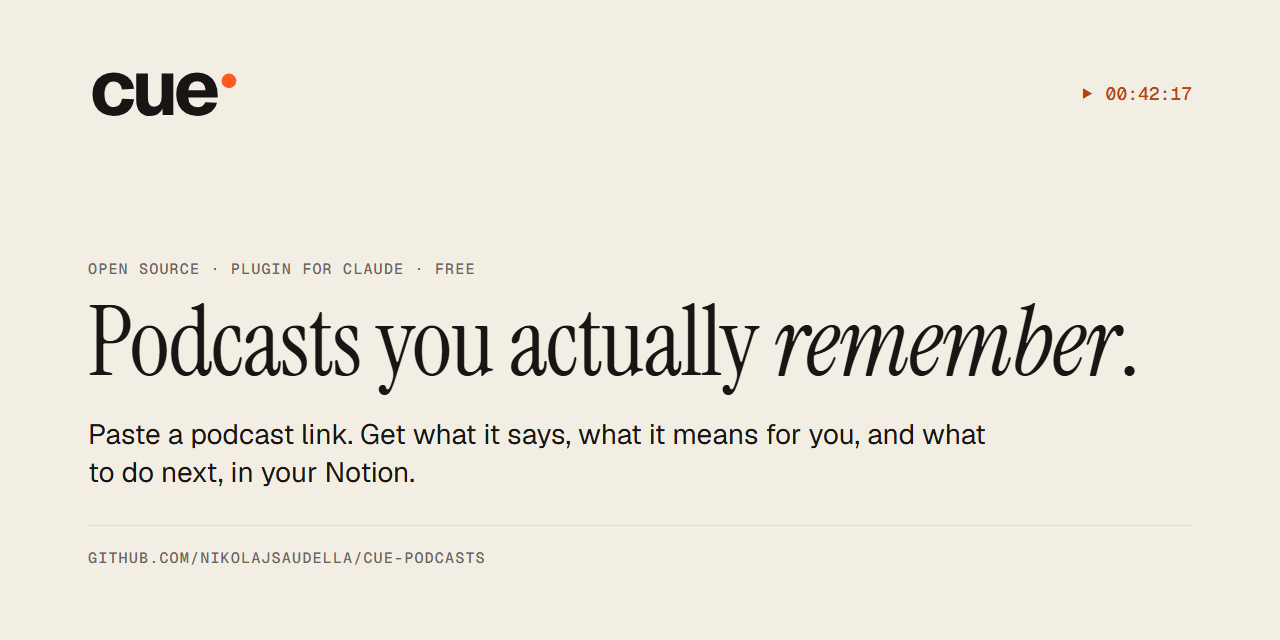
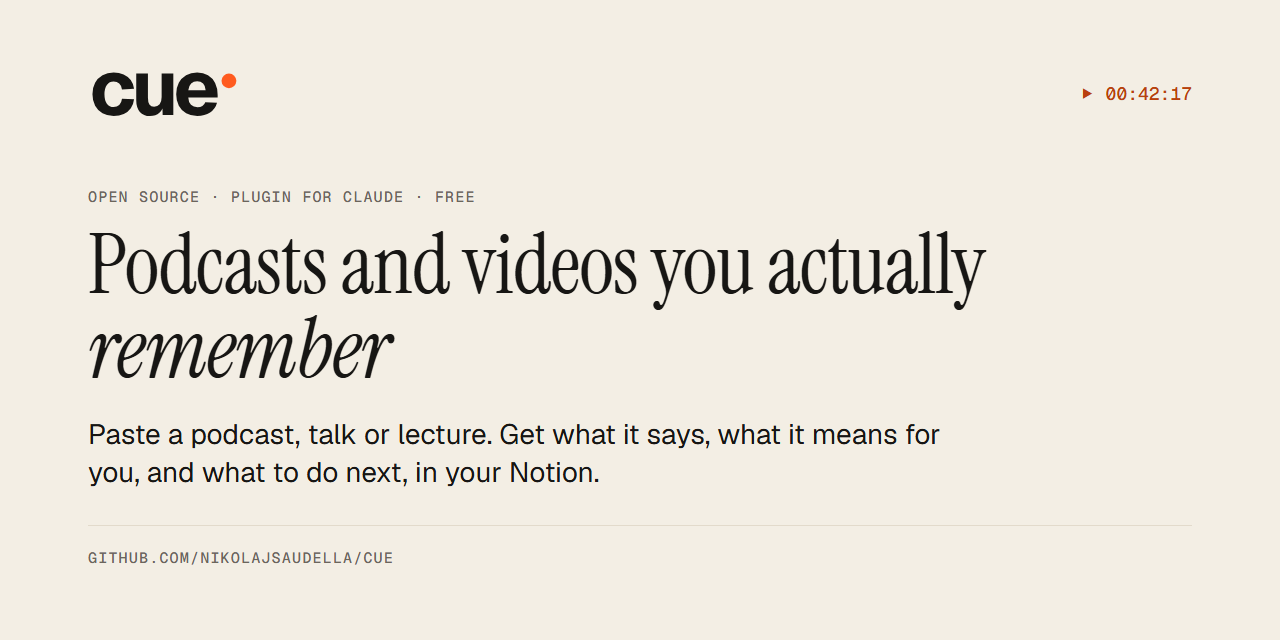
v0.1.3: podcasts and videos; new repository name cue

diff --git a/README.md b/README.md
@@ -7,13 +7,13 @@
 
 # cue
 
-**Podcasts you actually remember — and what they mean for you.**
+**Podcasts and videos you actually remember — and what they mean for you.**
 
-Paste a podcast link. Get what it says, what it means for *you*, and what to do next, in your Notion. *(Cue is pronounced like the letter Q.)*
+Paste a link to a podcast, a YouTube video, a talk or a lecture. Get what it says, what it means for *you*, and what to do next, in your Notion. *(Cue is pronounced like the letter Q.)*
 
 [🇮🇹 Leggi in italiano](README.it.md)
 
-You listen to great podcasts and forget them a week later. Cue turns each episode into a Notion page you'll actually use: the key ideas, chapters with clickable timestamps, the best quotes, and — the part that matters — **how it connects to your own projects and what you should do about it**.
+You listen to great podcasts, watch great talks and lectures, and forget them a week later. Cue turns each one into a Notion page you'll actually use: the key ideas, chapters with clickable timestamps, the best quotes, and — the part that matters — **how it connects to your own projects and what you should do about it**.
 
 It's a free plugin for the Claude app. No API keys, no subscriptions beyond your Claude plan, no code.
 
@@ -65,7 +65,7 @@ In the Claude desktop app, open the **Code** tab and start a session in any fold
 1. Click **+** next to the message box → **Plugins** → **Add plugin**.
 2. Choose **Add marketplace** and paste:
    ```
-   https://github.com/NikolajSaudella/cue-podcasts
+   https://github.com/NikolajSaudella/cue
    ```
 3. Select **cue** in the list and choose **Install for you**, so it works in every folder.
 
@@ -73,7 +73,7 @@ In the Claude desktop app, open the **Code** tab and start a session in any fold
 <summary>Using Claude Code in the terminal instead?</summary>
 
 ```
-/plugin marketplace add NikolajSaudella/cue-podcasts
+/plugin marketplace add NikolajSaudella/cue
 /plugin install cue@cue
 ```
 </details>
@@ -93,7 +93,7 @@ Claude takes it from there. It will:
 
 ## Everyday use
 
-- **Paste a link** in Claude: YouTube, Spotify or Apple Podcasts. For example: `https://www.youtube.com/watch?v=...`
+- **Paste a link** in Claude: a podcast (Spotify, Apple Podcasts), any YouTube video (interviews, talks, lectures, webinars) or a link to an audio file. For example: `https://www.youtube.com/watch?v=...`
 - **From your phone**: add a row with the link to the **📥 Inbox** in Notion, then tell Claude "process my inbox".
 - **Keep "🧭 My context" up to date**: new project, new goal? Edit the page, and future episodes will take it into account.
 

diff --git a/README.it.md b/README.it.md
@@ -7,13 +7,13 @@
 
 # cue
 
-**I podcast che ricordi davvero, e cosa significano per te.**
+**Podcast e video che ricordi davvero, e cosa significano per te.**
 
-Incolli il link di un podcast. Ottieni cosa dice, cosa significa *per te* e cosa fare, nel tuo Notion. *(Cue si pronuncia come la lettera Q.)*
+Incolli il link di un podcast, di un video YouTube, di un talk o di una lezione. Ottieni cosa dice, cosa significa *per te* e cosa fare, nel tuo Notion. *(Cue si pronuncia come la lettera Q.)*
 
 [🇬🇧 Read in English](README.md)
 
-Ascolti podcast bellissimi e dopo una settimana non ricordi niente. Cue trasforma ogni puntata in una pagina Notion che userai davvero. Dentro trovi:
+Ascolti podcast bellissimi, guardi talk e lezioni, e dopo una settimana non ricordi niente. Cue trasforma ognuno in una pagina Notion che userai davvero. Dentro trovi:
 - le idee chiave;
 - i capitoli con i minutaggi cliccabili;
 - le citazioni migliori;
@@ -69,7 +69,7 @@ Nell'app Claude per computer apri la scheda **Code** e avvia una sessione in una
 1. Clicca **+** accanto alla casella del messaggio → **Plugins** → **Add plugin**.
 2. Scegli **Add marketplace** e incolla:
    ```
-   https://github.com/NikolajSaudella/cue-podcasts
+   https://github.com/NikolajSaudella/cue
    ```
 3. Seleziona **cue** nella lista e scegli **Install for you**, così funziona in ogni cartella.
 
@@ -77,7 +77,7 @@ Nell'app Claude per computer apri la scheda **Code** e avvia una sessione in una
 <summary>Usi Claude Code dal terminale?</summary>
 
 ```
-/plugin marketplace add NikolajSaudella/cue-podcasts
+/plugin marketplace add NikolajSaudella/cue
 /plugin install cue@cue
 ```
 </details>
@@ -96,7 +96,7 @@ Da lì fa tutto Claude:
 
 ## Uso quotidiano
 
-- **Incolla un link** in Claude: YouTube, Spotify o Apple Podcasts.
+- **Incolla un link** in Claude: un podcast (Spotify, Apple Podcasts), qualsiasi video YouTube (interviste, talk, lezioni, webinar) o il link di un file audio.
 - **Dal telefono:** aggiungi una riga con il link nell'**📥 Inbox** di Notion, poi di' a Claude "processa la mia inbox".
 - **Tieni aggiornata "🧭 My context":** nuovo progetto, nuovo obiettivo? Modifica la pagina e le prossime puntate ne terranno conto.
 

diff --git a/skills/setup/SKILL.md b/skills/setup/SKILL.md
@@ -35,7 +35,7 @@ Ask these in **one message** (or with the question tool, if available), and say 
 1. **Who are you?** Role and what you do day to day.
 2. **What are you building or working on?** 1-3 projects, one line each (a startup, a job, studies, a side project).
 3. **What do you want to get better at, or achieve, in the next 6-12 months?**
-4. **Which topics do you listen to podcasts for?** And is there a question you are trying to answer right now?
+4. **Which topics do you listen to podcasts or watch videos for?** And is there a question you are trying to answer right now?
 
 If an answer is vague, ask **one** follow-up at most. Don't turn it into a questionnaire.
 
@@ -45,10 +45,10 @@ Tell the user you are creating their Cue space in Notion. Then, in this order:
 **a. Home page.** `notion-create-pages` with `creation_mode: "draft"` (a private page at the top of their workspace), icon 🎧, title "cue", lowercase like the logo (never put emoji in page titles: use the icon). Content, written in the user's language:
 ```
 <callout icon="🎧" color="blue_bg">
-	Paste a podcast link in Claude and get here: what it says, what it means for you, and what to do next.
+	Paste a podcast or video link in Claude and get here: what it says, what it means for you, and what to do next.
 </callout>
 ## How to use it
-- **In Claude:** paste the link of an episode (YouTube, Spotify, Apple Podcasts).
+- **In Claude:** paste the link of a podcast episode or a video (YouTube, Spotify, Apple Podcasts).
 - **From your phone:** add a row to the **Inbox** below with the link, then tell Claude "process my inbox".
 - **Make it yours:** keep "🧭 My context" up to date: it's what makes the notes personal.
 ---

diff --git a/skills/episode/SKILL.md b/skills/episode/SKILL.md
@@ -1,6 +1,6 @@
 ---
 name: episode
-description: Turn a podcast or video episode (YouTube, Spotify, Apple Podcasts, audio file link) into a Cue page in Notion — summary with chapters and timestamps, quotes, "what it means for me", concepts linked across episodes, and concrete actions. Use it when the user pastes an episode link, or asks to process their Cue inbox.
+description: Turn a podcast episode or any video (YouTube interviews, talks, lectures, webinars; Spotify; Apple Podcasts; audio file links) into a Cue page in Notion — summary with chapters and timestamps, quotes, "what it means for me", concepts linked across episodes, and concrete actions. Use it when the user pastes a podcast or video link, or asks to process their Cue inbox.
 allowed-tools:
   - Bash(uv *)
   - Bash(*uv.exe *)

diff --git a/CHANGELOG.md b/CHANGELOG.md
@@ -1,5 +1,10 @@
 # Changelog
 
+## v0.1.3
+
+- Cue is now presented for **podcasts and videos**: interviews, talks, lectures and webinars on YouTube work exactly like podcast episodes (they always did, now the product says so).
+- New repository address: github.com/NikolajSaudella/cue (the old one redirects).
+
 ## v0.1.2
 
 - **Fix:** YouTube videos with automatic dubbing offer captions in many languages; cue sometimes picked a translated track (e.g. Arabic for an English talk). It now always uses the video's original language.
